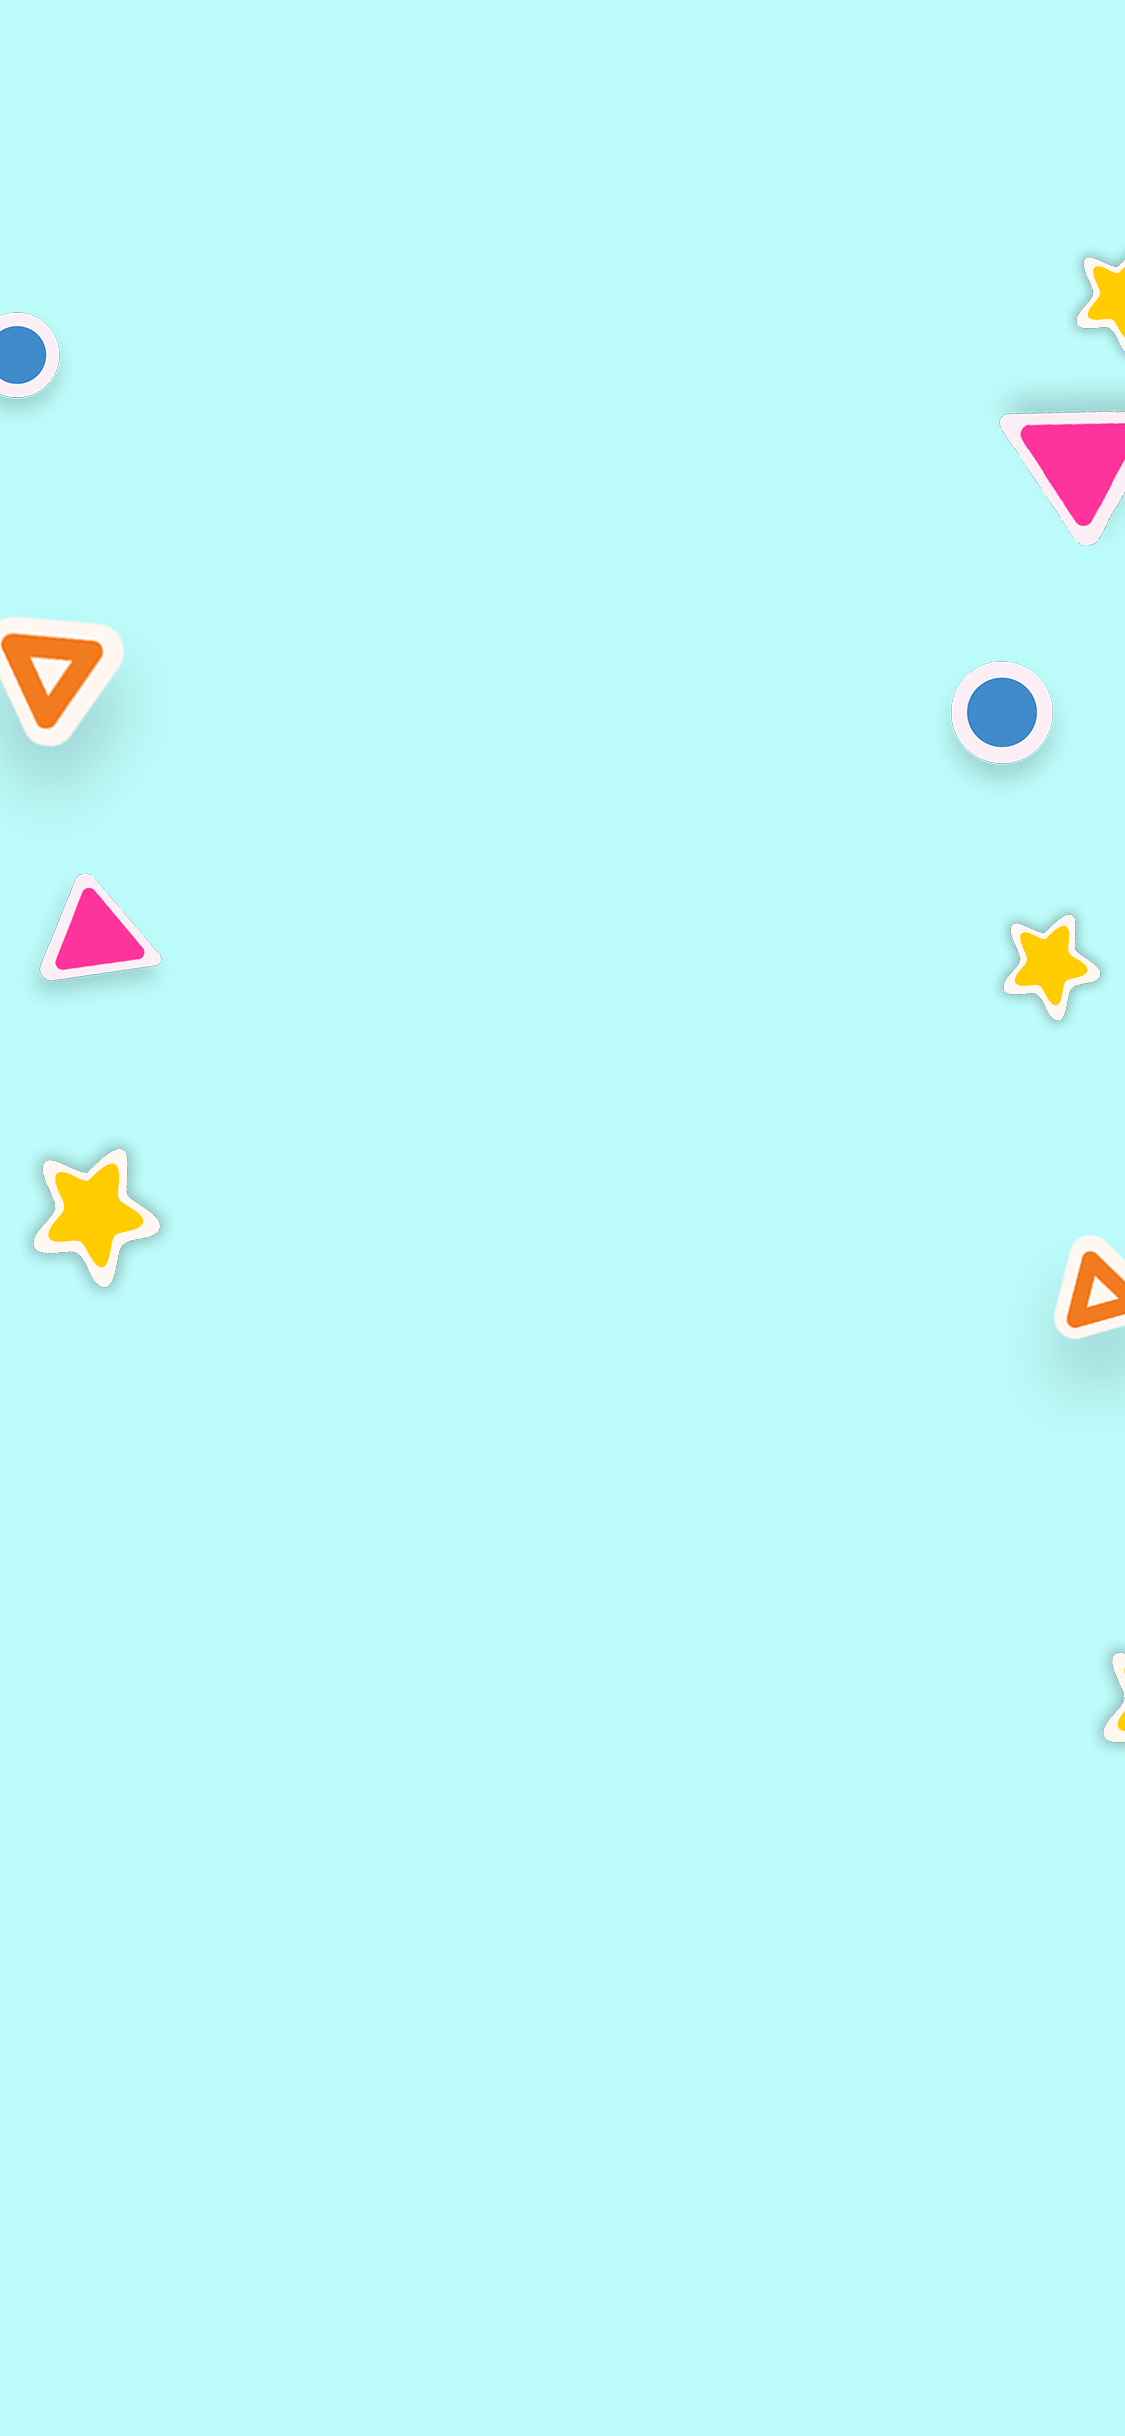
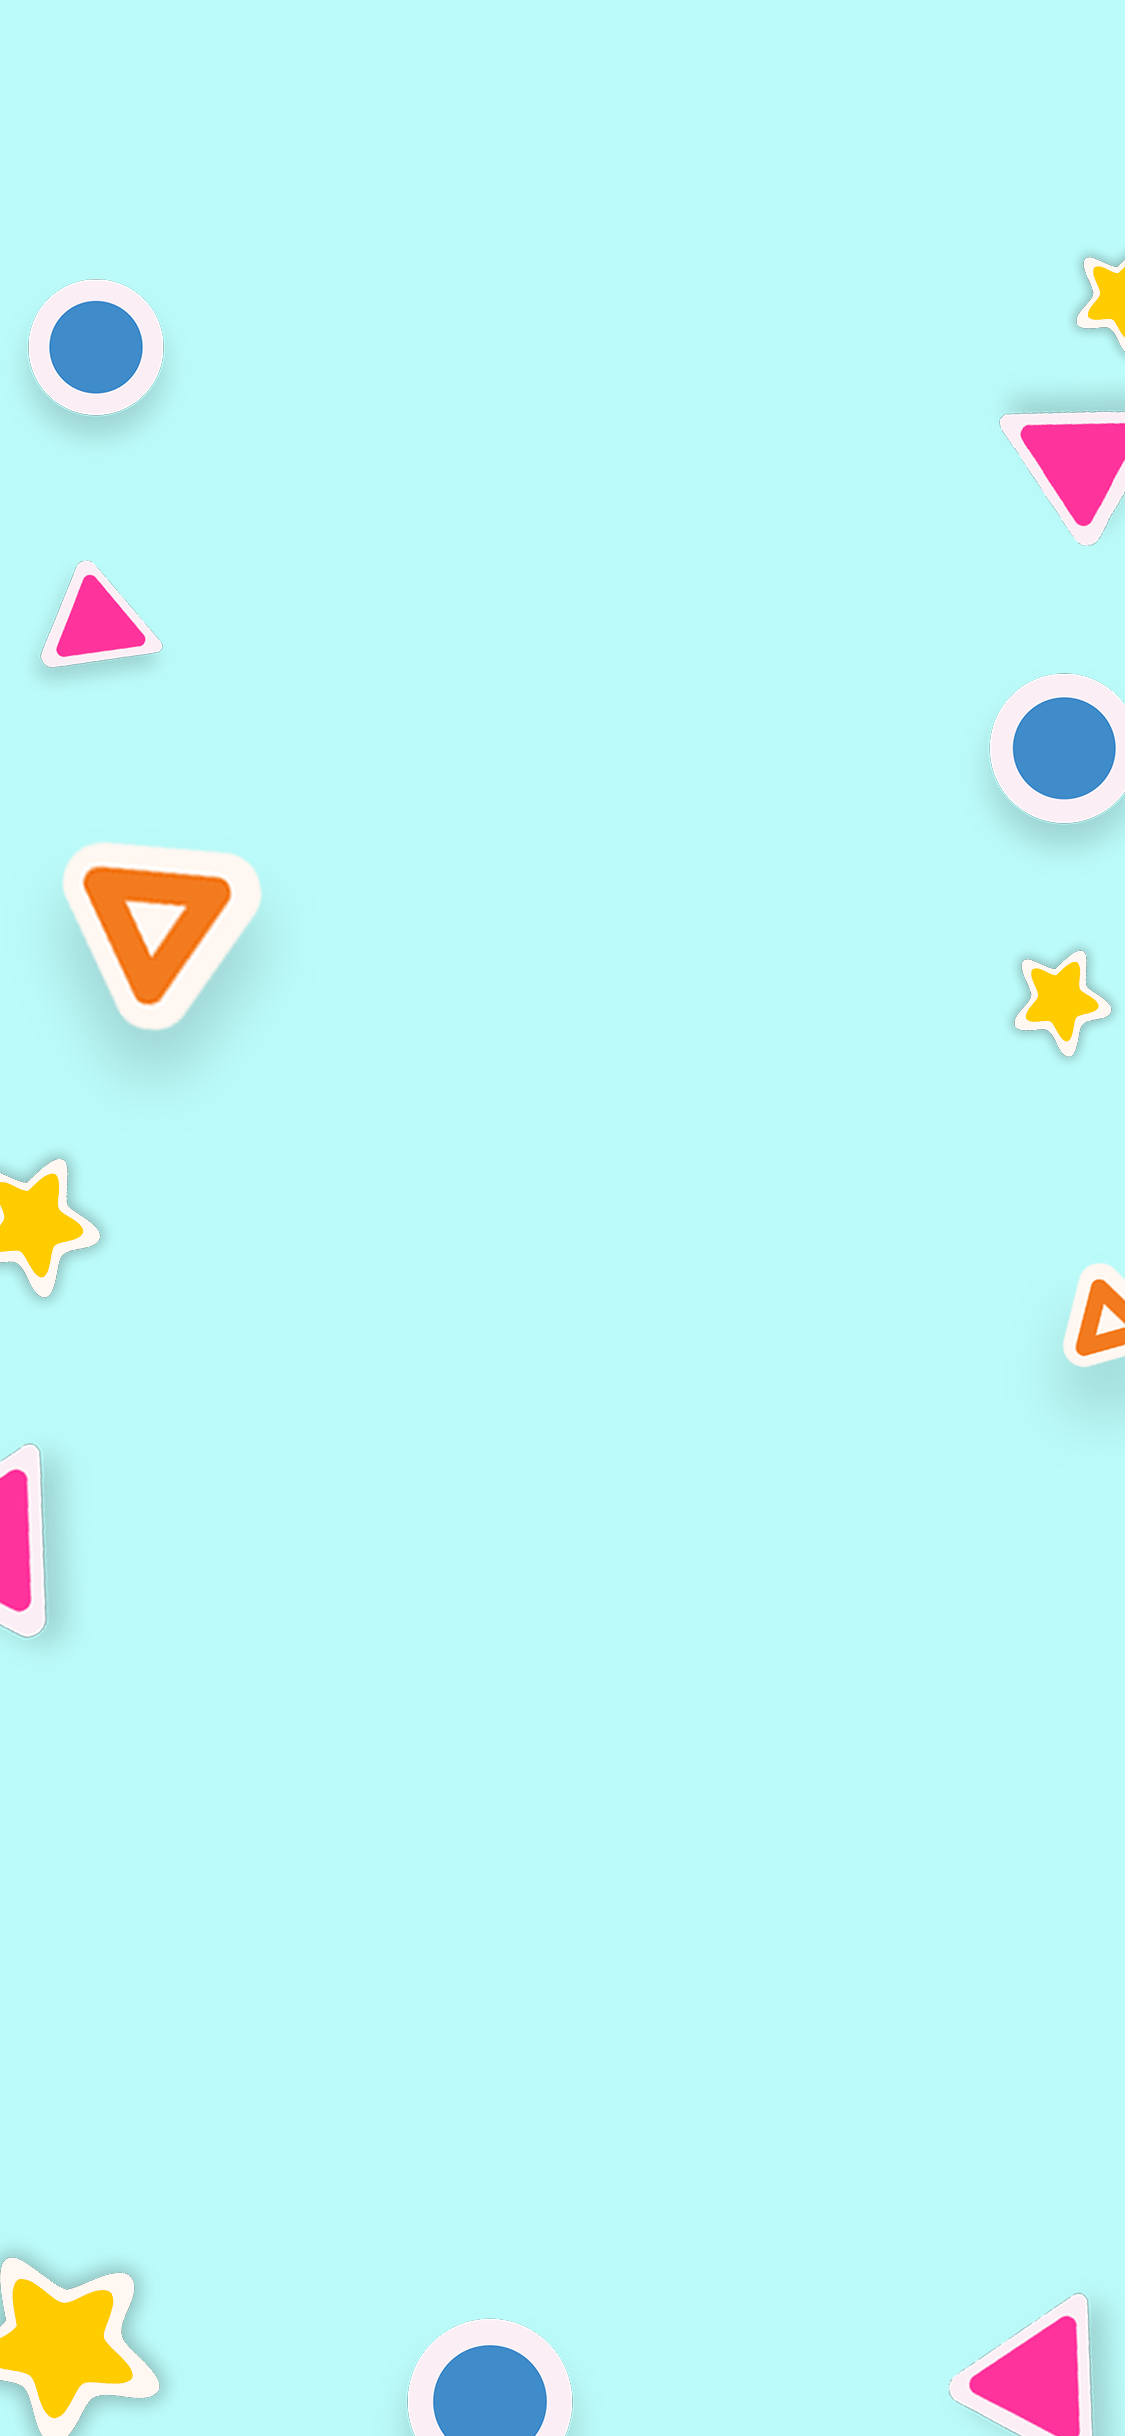
changed mobile bg

diff --git a/index.html b/index.html
@@ -117,7 +117,7 @@
             Your browser does not support SVG.
           </object> -->
           <img src="img/prize1.png" data-aos="fade-left" width="350" data-aos-duration="1000"  class="img-fluid prizeimg " alt=""><br/>
-          <button class="btn register-btn btn-sm px-5 pt-2 mt-4 pb-2 " data-toggle="modal" data-target="#luckydraw">  Register Now</button> 
+          <button class="btn register-btn btn-sm px-5 pt-2 mt-4 pb-2 "  data-toggle="modal" data-target="#luckydraw">  Register Now</button> 
         </div>
        
       </div>
@@ -135,14 +135,14 @@
           <p class="mb-4 text-black"></p>
          
           <br>
-          <button class="btn register-btn text-center btn-sm px-5 pt-2 mt-4 pb-2 " id="registerbtn" onclick="showpartners()" data-toggle="modal" data-target="#specialoffer">Special Offer Register Now</button> 
+          <button class="btn register-btn text-center btn-sm px-5 pt-2 mt-4 pb-2 " id="registeration " onclick="showpartners()" data-toggle="modal" data-target="#specialoffer">Special Offer Register Now</button> 
         </div>   
         <div class="col-lg-6"> 
           <div class="col-md-12" id="partnerbox">
-            <img src="img/babybox2.png" data-aos="fade-right"  data-aos-duration="1000"  class="img-fluid mb-4  " alt="">
+            <img src="img/babybox2.png" data-aos="fade-right"  data-aos-duration="1000"  class="img-fluid mt-4 mb-4  " alt="">
            
           </div>
-          <div class="col-md-12" id="partnerside" >
+          <div class="col-md-12 mt-4" id="partnerside" >
             <img src="https://via.placeholder.com/728x300.png" data-aos="fade-right"  data-aos-duration="1000"  class="img-fluid mb-4  " alt="">
             <img src="https://via.placeholder.com/728x300.png" data-aos="fade-right"  data-aos-duration="1000"  class="img-fluid mb-4  " alt="">
           </div>
@@ -509,12 +509,12 @@
               <a class=" float-right" href=""> <i class="fas text-danger  fa-times pt-2 pl-1 mr-2"></i></a>
             </div>      
             <div class="col-md-12 h-50 text-center  fill-height remove-flex" >
-              <button onclick="addrow()" class="btn mt-2 mb-2 "
+              <button  class="btn mt-2 mb-2 "
                style="background:#37AECE; color:#fff ;padding :20px; width:100%;"  >
                <i class="fas  fa-plus pl-2 mr-2"></i>Add Children</button>
               
               <div style=" bottom:0;">
-                <button  style=" width:100%; padding:10px;" class="btn register-btn  px-4 mt-4 pt-4 pb-2 "> Send</button> 
+                <button   style=" width:100%; padding:10px;" class="btn register-btn  px-4 mt-4 pt-4 pb-2 "> Send</button> 
               </div>
             </div>      
           </div>

diff --git a/terms.html b/terms.html
@@ -406,7 +406,7 @@
                   <div class="col-md-12">
                     <div class="form-check">
                       <input type="checkbox" class="form-check-input" id="exampleCheck1">
-                      <label class="form-check-label" for="exampleCheck1"><a href="">Terms and Conditions</a> </label>
+                      <label class="form-check-label" for="exampleCheck1"><a href="index.html" >Terms and Conditions</a> </label>
                     </div>
                     <div class="form-check">
                       <input type="checkbox" class="form-check-input" id="exampleCheck1">
@@ -446,7 +446,7 @@
                <i class="fas  fa-plus pl-2 mr-2"></i>Add Children</button>
               
               <div style=" bottom:0;">
-                <button  style=" width:100%; padding:10px;" class="btn register-btn  px-4 mt-4 pt-4 pb-2 "> Send</button> 
+                <button  style=" width:100%; padding:10px;"  class="btn register-btn  px-4 mt-4 pt-4 pb-2 "> Send</button> 
               </div>
             </div>      
           </div>

diff --git a/css/style.css b/css/style.css
@@ -45,7 +45,7 @@
 }
 
 .border-rounded {
-  border-radius: 50px !important;
+  border-radius: 0px !important;
 }
 
 nav {
@@ -230,7 +230,7 @@ nav.nav-bg {
 }
 
 .border-rounded {
-  border-radius: 50px !important;
+  border-radius: 0px !important;
 }
 
 img.vert-move {
@@ -304,7 +304,7 @@ img.vert-move {
 }
 
 .border-rounded {
-  border-radius: 50px !important;
+  border-radius: 0px !important;
 }
 
 @font-face {
@@ -635,6 +635,19 @@ body {
   z-index: -999;
 }
 
+@media (max-width: 425px) {
+  .hero-img {
+    height: 800px;
+    position: absolute;
+    filter: blur(9px);
+    background-attachment: fixed;
+    background-image: url("../img/mobilbg.png") !important;
+    background-size: cover;
+    background-repeat: no-repeat;
+    width: 100%;
+    z-index: -999;
+  }
+}
 .term-img {
   height: 2700px !important;
   position: absolute;

diff --git a/scss/style.scss b/scss/style.scss
@@ -85,6 +85,19 @@ color:rgb(34, 34, 34);
   z-index:-999;
  
 }
+@media(max-width:425px){
+  .hero-img{ height:800px;
+    position:absolute;
+    filter:blur(9px);
+    background-attachment: fixed;
+    background-image:url("../img/mobilbg.png") !important;
+    background-size: cover;
+    background-repeat: no-repeat;
+    width: 100%;
+    z-index:-999;
+   
+  }
+}
 .term-img{ height:2700px !important;
   position:absolute;
   filter:blur(9px);

diff --git a/js/main.js b/js/main.js
@@ -90,3 +90,11 @@ function showpartners() {
       x.style.display = "none";
     }
   }
+  function removebtn() {
+    var x = document.getElementById("registeration");
+    if (x.style.display === "block") {
+      x.style.display = "none";
+    } else {
+      x.style.display = "none";
+    }
+  }
